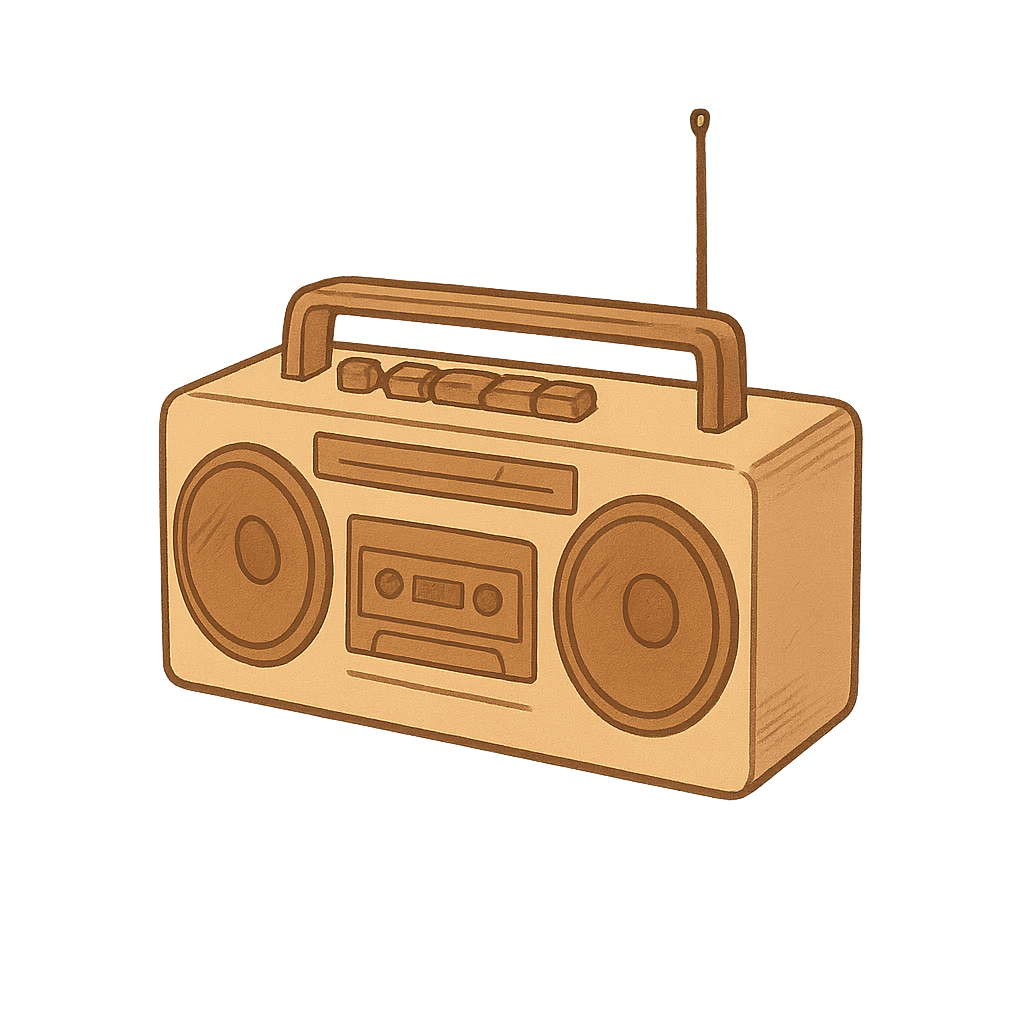
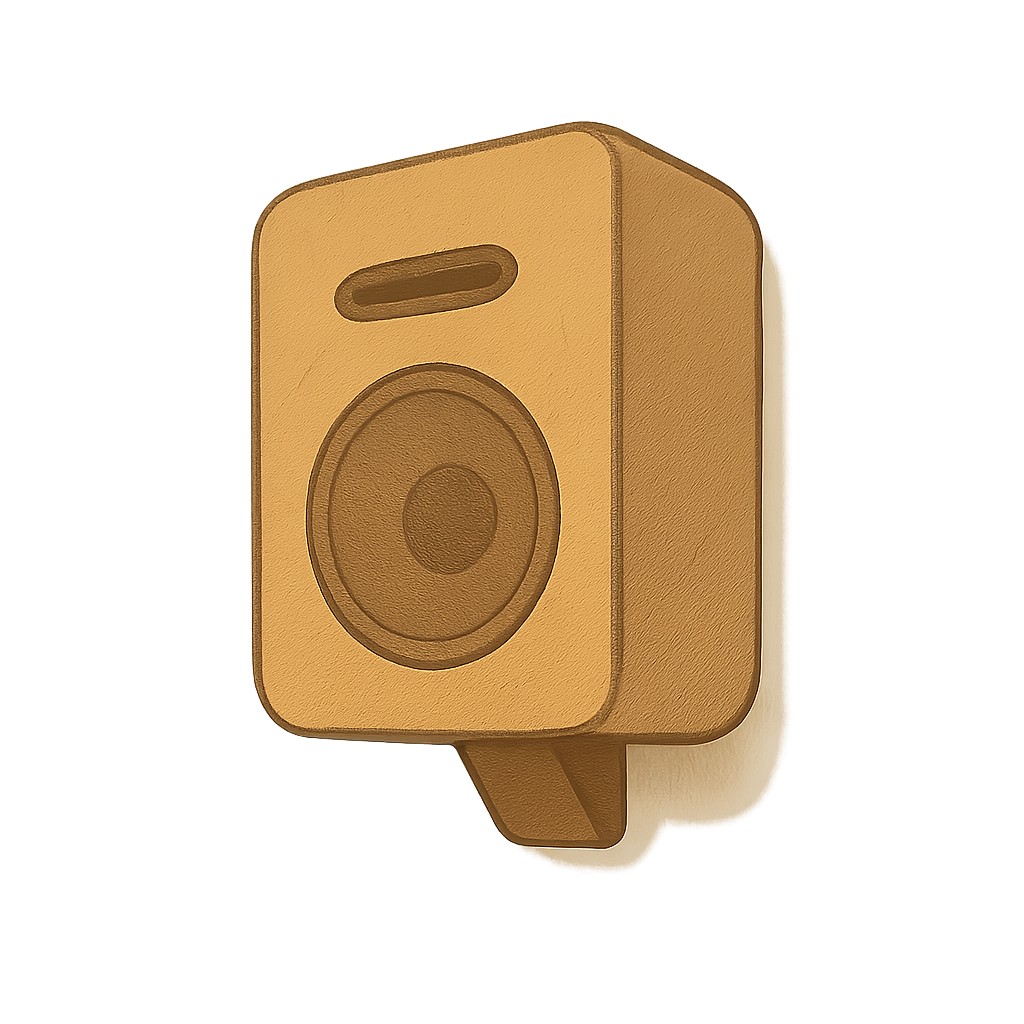
Adde echodot image instead of stereo

diff --git a/lib/ui/components/living_room_game.dart b/lib/ui/components/living_room_game.dart
@@ -12,7 +12,7 @@ class LivingRoomGame extends FlameGame {
   @override
   Future<void> onLoad() async {
     final background = await loadSprite('living_unity.png');
-    final stereoSprite = await loadSprite('radio.png');
+    final stereoSprite = await loadSprite('echodot.png');
 
     add(
       SpriteComponent(
@@ -26,8 +26,8 @@ class LivingRoomGame extends FlameGame {
           sprite: stereoSprite,
           onTap: onStereoTap,
         )
-        ..size = stereoSprite.originalSize * 0.075
-        ..position = Vector2(size.x * 0.38, size.y * 0.54),
+        ..size = stereoSprite.originalSize * 0.039
+        ..position = Vector2(size.x * 0.42, size.y * 0.565),
     );
   }
 }
